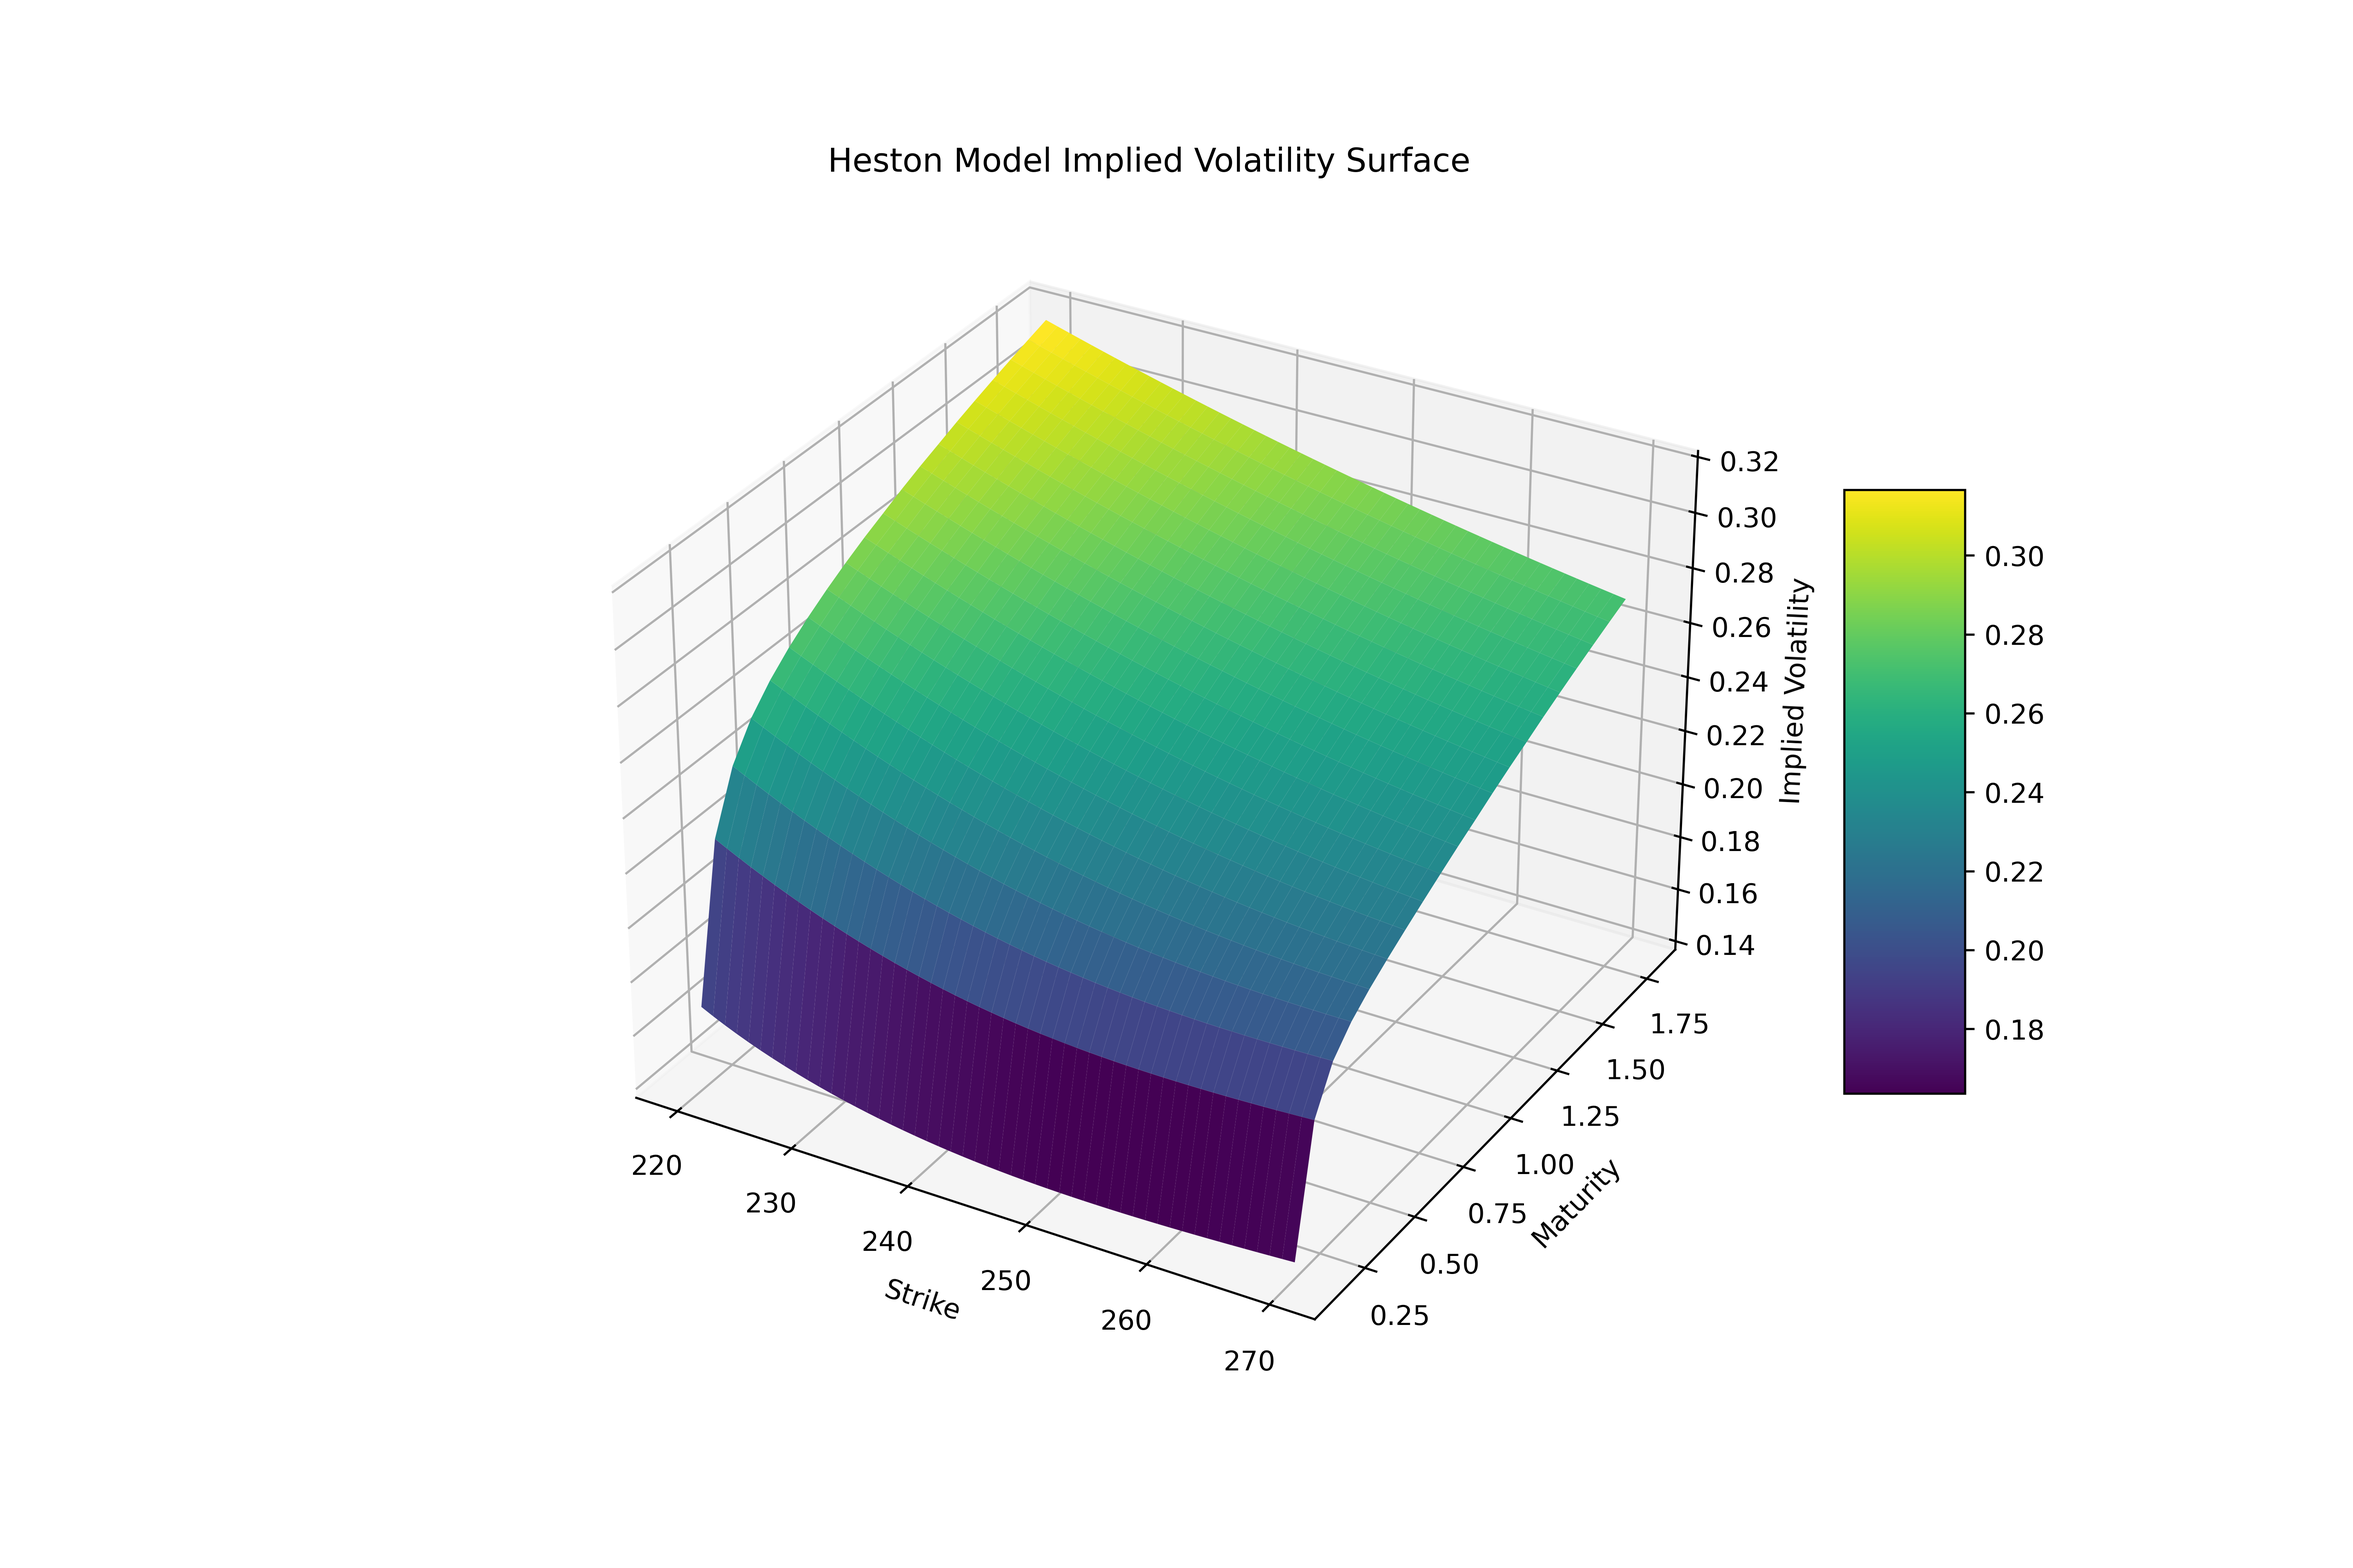
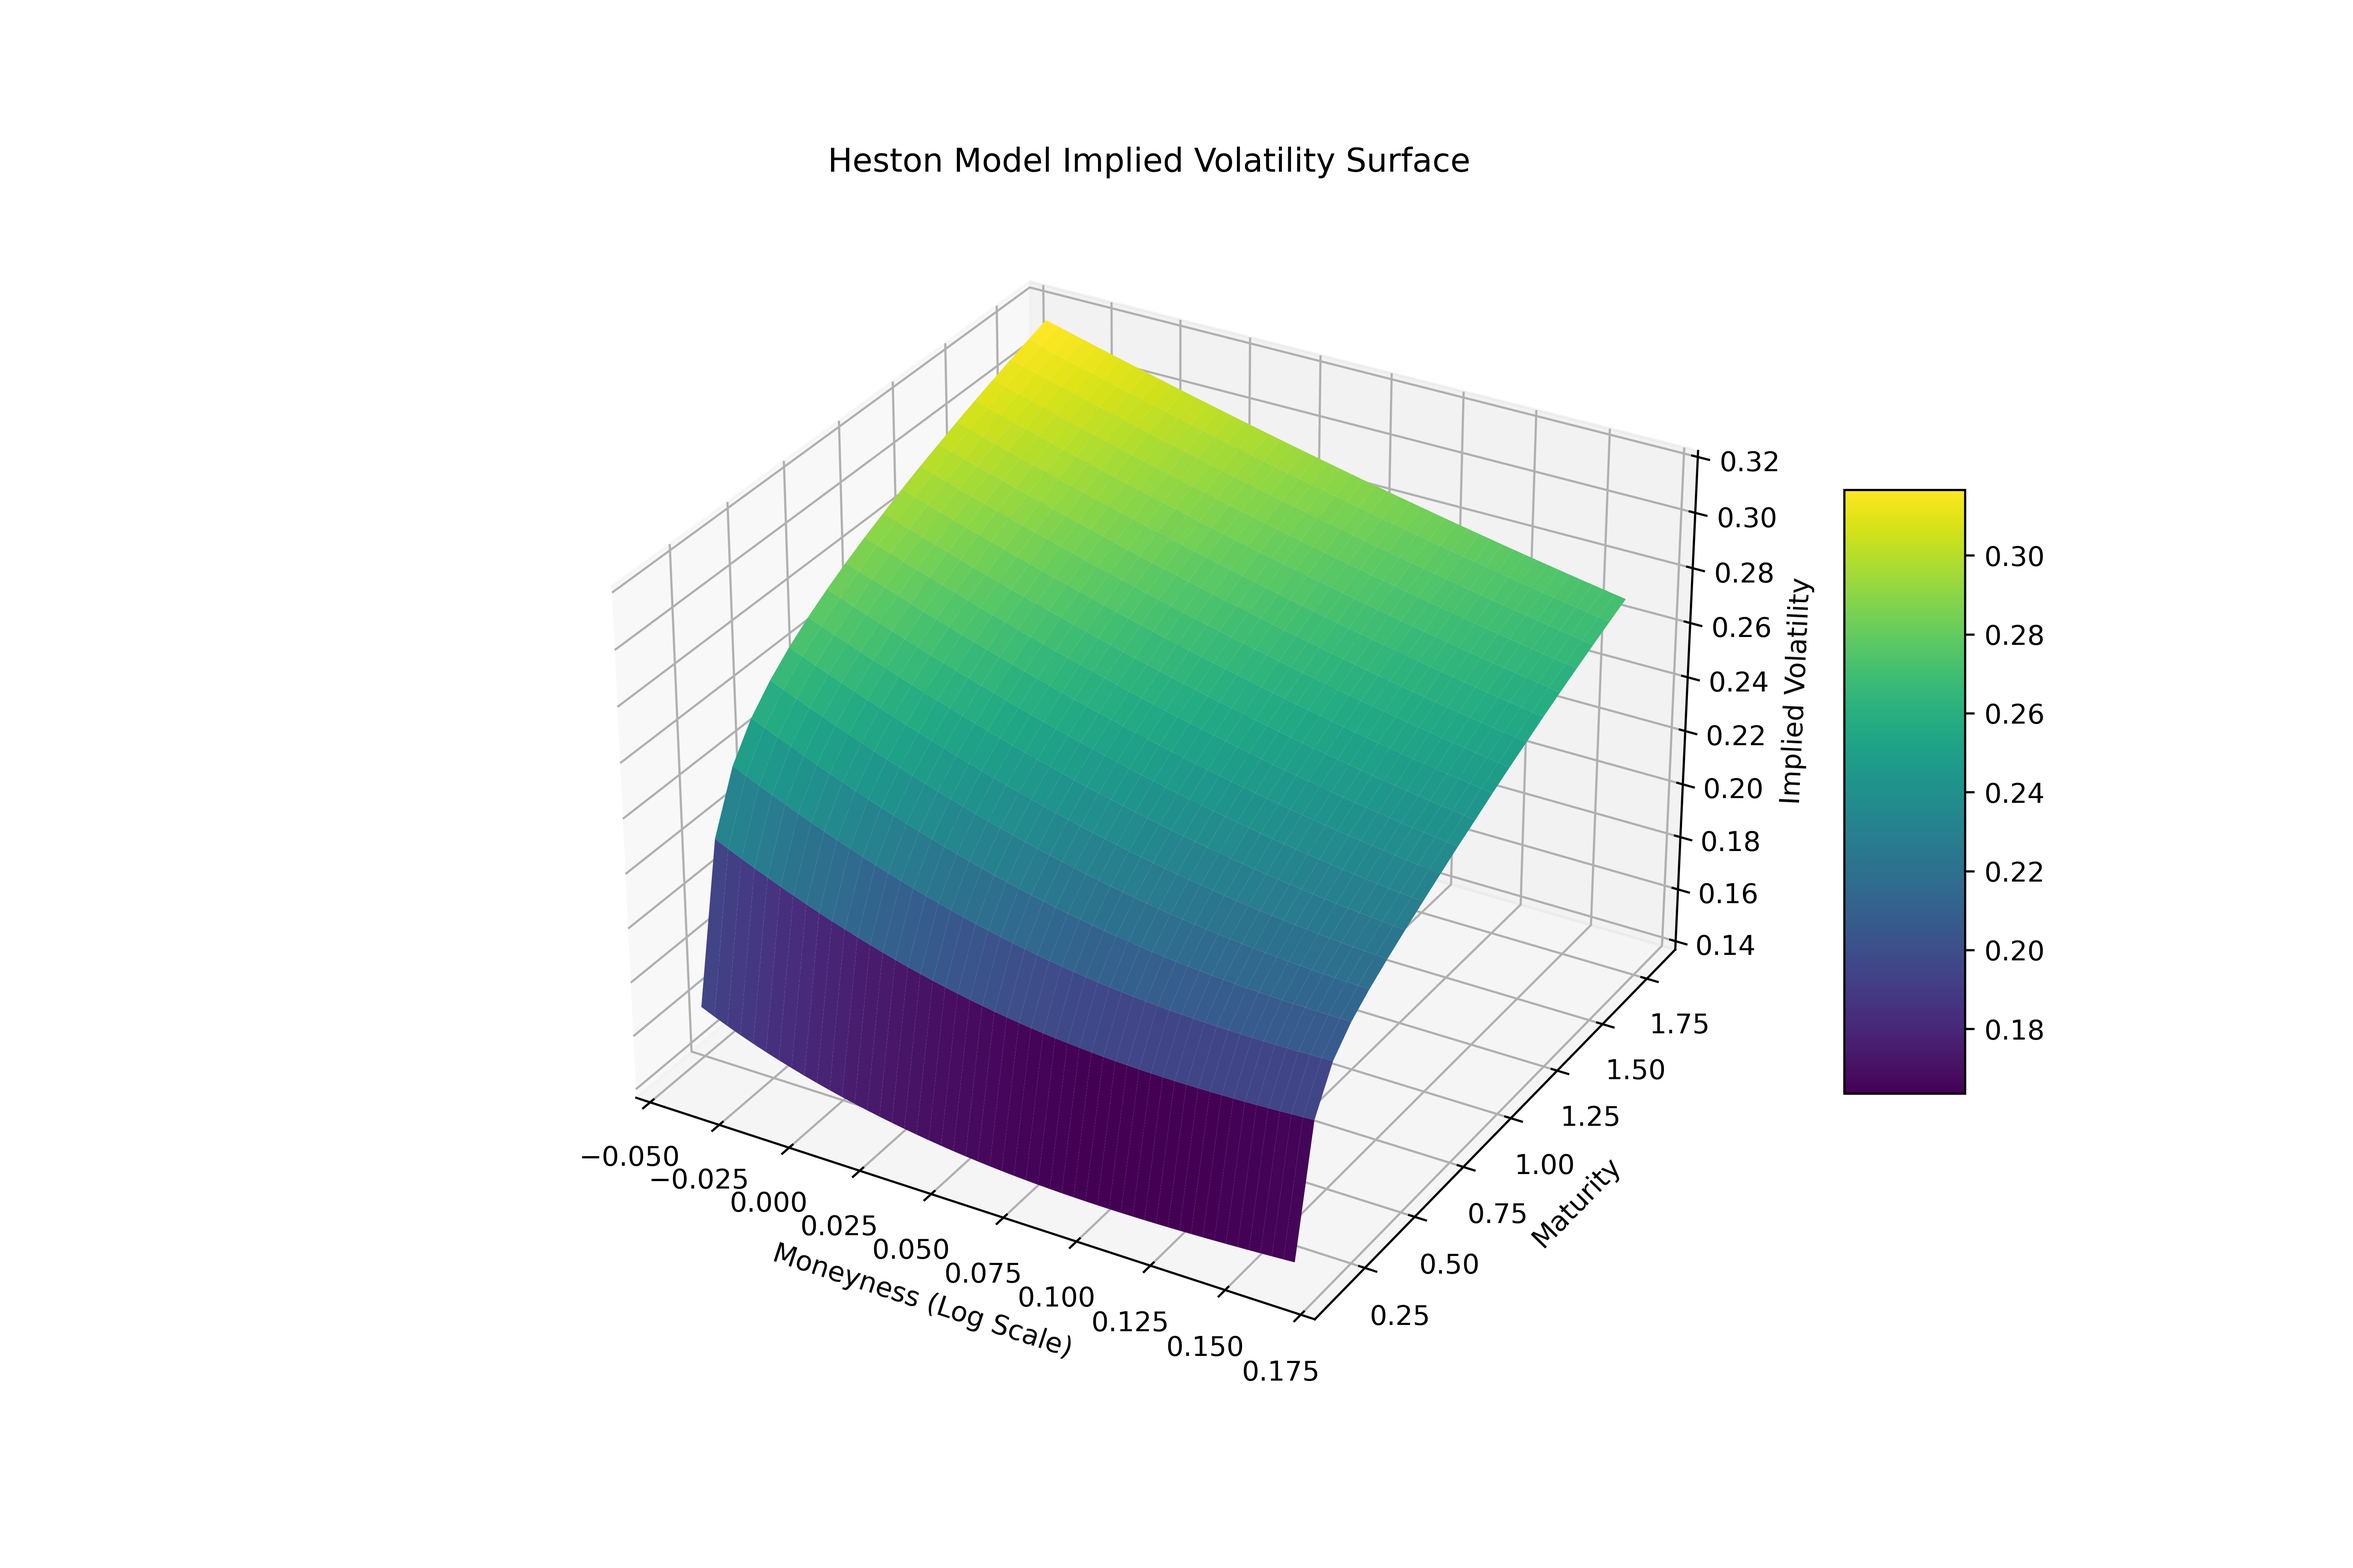
changed the scale of X-axis for the plot

diff --git a/quantlib-implementation/heston_model/main.py b/quantlib-implementation/heston_model/main.py
@@ -251,14 +251,14 @@ class QuantlibCalibration:
             maturities (np.array): Array of maturities.
             surface (np.array): 2D array representing the implied volatility surface.
         """
-        X, Y = np.meshgrid(strikes, maturities)
+        X, Y = np.meshgrid(np.log(strikes / self.data["spot_price"]), maturities)
         
         fig = plt.figure(figsize=(12, 8))
         ax = fig.add_subplot(111, projection='3d')
         
         surf = ax.plot_surface(X, Y, surface, cmap='viridis', edgecolor='none')
         
-        ax.set_xlabel('Strike')
+        ax.set_xlabel('Moneyness (Log Scale)')
         ax.set_ylabel('Maturity')
         ax.set_zlabel('Implied Volatility')
         ax.set_title('Heston Model Implied Volatility Surface')
